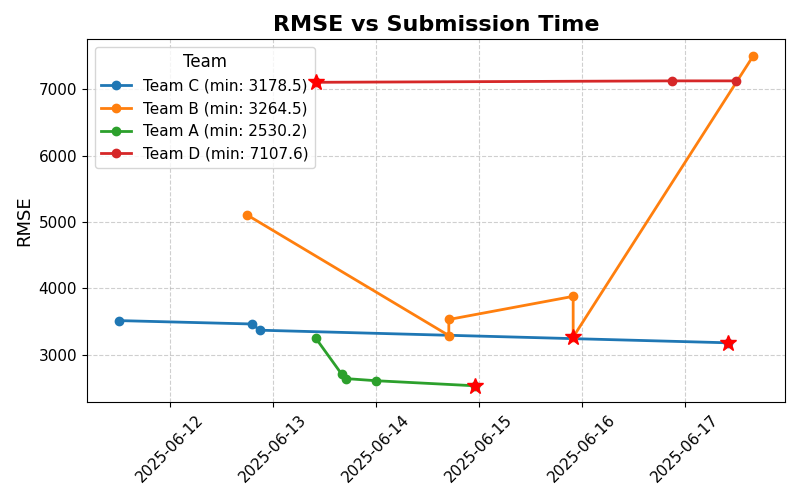
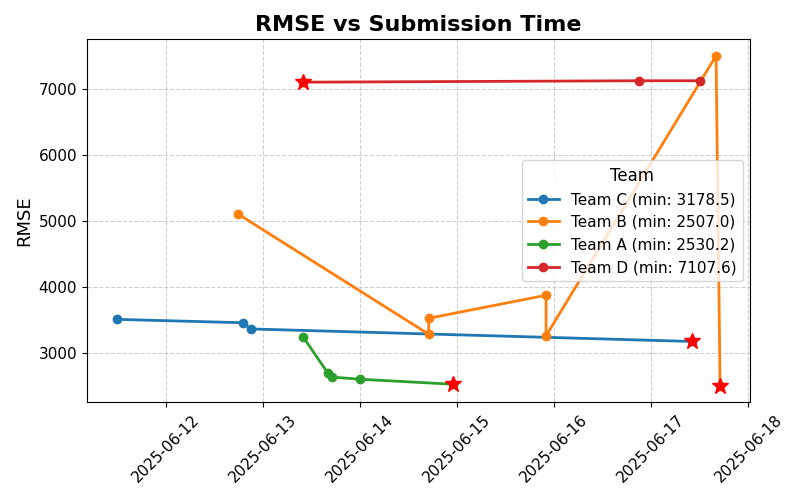
Ranking updated — 2025-06-17

diff --git a/README.md b/README.md
@@ -3,13 +3,13 @@
 
 | 순위 | 팀 이름 |   RMSE   |
 |------|--------|----------|
-| 1    | 팀 A    | 2530.151 |
-| 2    | 팀 C    | 3178.504 |
-| 3    | 팀 B    | 3264.466 |
+| 1    | 팀 B    | 2506.983 |
+| 2    | 팀 A    | 2530.151 |
+| 3    | 팀 C    | 3178.504 |
 | 4    | 팀 D    | 7107.612 |
 
 > 🔁 가장 최근 제출 중 **가장 낮은 RMSE**만 기록됩니다.
-> ⏱ 마지막 업데이트: 2025-06-17 17:11 (KST)
+> ⏱ 마지막 업데이트: 2025-06-17 17:17 (KST)
 ![RMSE Submission Graph](rmse_submission.png)
 
 ---
